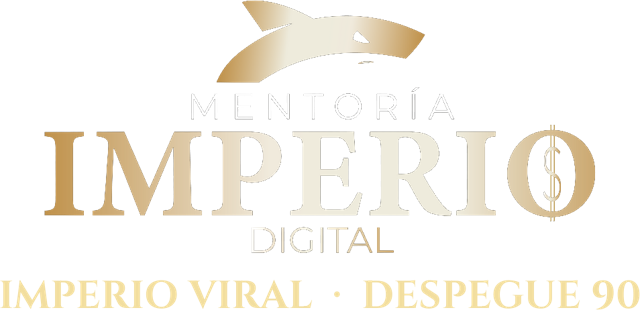
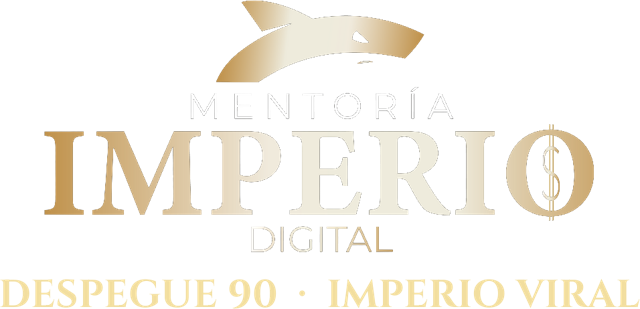
Despegue 90 · Imperio Viral en la marca

diff --git a/descarga.html b/descarga.html
@@ -27,7 +27,7 @@
 </head>
 <body>
 <main>
-  <header class="hero"><img src="img/marca.png" alt="Mentoría Imperio Digital · Imperio Viral · Despegue 90" width="320"></header>
+  <header class="hero"><img src="img/marca.png" alt="Mentoría Imperio Digital · Despegue 90 · Imperio Viral" width="320"></header>
   <div id="si" hidden>
     <h1>Tu revisión de perfil está lista</h1>
     <p>Descárgala y ábrela en tu teléfono o tu computadora.</p>

diff --git a/index.html b/index.html
@@ -48,7 +48,7 @@
 </head>
 <body>
 <main>
-  <header class="hero"><img src="img/marca.png" alt="Mentoría Imperio Digital · Imperio Viral · Despegue 90" width="320"></header>
+  <header class="hero"><img src="img/marca.png" alt="Mentoría Imperio Digital · Despegue 90 · Imperio Viral" width="320"></header>
 
   <form id="f" novalidate>
     <h1>Revisión de perfil de Instagram</h1>
